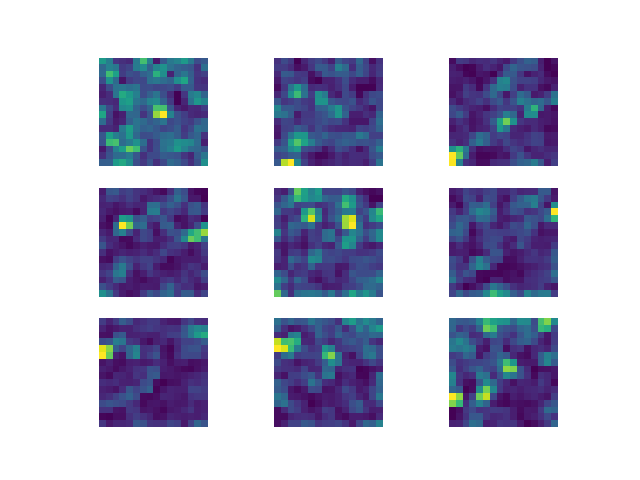
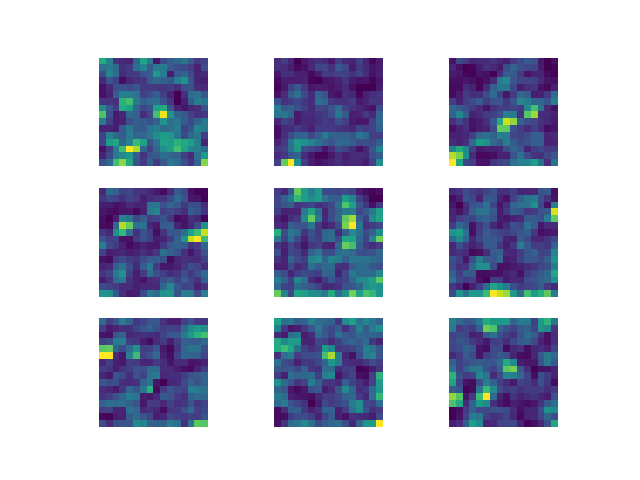
fix 026, 068, 095, 096

diff --git a/q91_100/lib91100.py b/q91_100/lib91100.py
@@ -4,6 +4,8 @@ from collections import Counter
 import sys,os
 sys.path.append(os.getcwd())
 from q01_10 import lib0110
+from q21_30 import lib2130
+from q61_70 import lib6170
 
 # 91
 def Kmeans_cr1_init(img, classes, seed=-1):
@@ -88,3 +90,117 @@ def random_cropping(img, gt, sizex, sizey, num, seed):
             i2 = cv2.rectangle(i2, (rect[0],rect[1]), (rect[2],rect[3]), (0,0,255))
     i2 = cv2.rectangle(i2, (gt[0],gt[1]), (gt[2],gt[3]), (0,255,0))
     return i2, rects, labels
+
+
+# 96
+def nn_getHOG(img, rect, rex, rey, HOG_N=8):
+    rect = list(map(int, rect))
+    part = img[rect[1]:rect[3], rect[0]:rect[2]]
+    hei, wid, _ = part.shape
+    p2 = lib2130.Bi_linear_interpolation(part, float(rex)/wid, float(rey)/hei)
+    mag, ang = lib6170.HOG1_gradient(p2)
+    angs = lib6170.HOG2_histogram(mag, ang, N=HOG_N)
+    outs = lib6170.HOG3_normalization(angs, C=3, epsilon=1)
+    feat = outs.ravel().astype(np.float32)
+    return feat
+
+def nn_getHOGs(img, rects, rex, rey, HOG_N=8):
+    database = []
+    for rect in rects:
+        database.append(nn_getHOG(img, rect, rex, rey, HOG_N))
+    return database
+
+def train_nn(nn, train_x, train_t, num):
+    for _ in range(num):
+        nn.forward(train_x)
+        nn.train(train_x, train_t)
+    return nn
+
+def test_nn(nn, test_x, test_t):
+    num = len(test_x)
+    correct = 0
+    for j in range(len(test_x)):
+        x = test_x[j]
+        t = test_t[j][0]
+        #print("in:", x, "pred:", nn.forward(x), "ans:", t)
+        ans = 0 if nn.forward(x)<=0.5 else 1
+        if t==ans:
+            correct += 1
+    print("datasize : ", num, ", correct : ", correct)
+
+class NN:
+    def __init__(self, ind=2, w1=64, w2=64, outd=1, lr=0.1, seed=-1):
+        if seed != -1:
+            np.random.seed(seed)
+        self.w1 = np.random.normal(0, 1, [ind, w1])
+        self.b1 = np.random.normal(0, 1, [w1])
+        self.w2 = np.random.normal(0, 1, [w1, w2])
+        self.b2 = np.random.normal(0, 1, [w2])
+        self.wout = np.random.normal(0, 1, [w2, outd])
+        self.bout = np.random.normal(0, 1, [outd])
+        self.lr = lr
+
+    def forward(self, x):
+        self.z1 = x
+        self.z2 = self.sigmoid(np.dot(self.z1, self.w1) + self.b1)
+        self.z3 = self.sigmoid(np.dot(self.z2, self.w2) + self.b2)
+        self.out = self.sigmoid(np.dot(self.z3, self.wout) + self.bout)
+        return self.out
+
+    def train(self, x, t):
+        # backpropagation output layer
+        #En = t * np.log(self.out) + (1-t) * np.log(1-self.out)
+        En = (self.out - t) * self.out * (1 - self.out)
+        grad_En = En #np.array([En for _ in range(t.shape[0])])
+        grad_wout = np.dot(self.z3.T, En)
+        grad_bout = np.dot(np.ones([En.shape[0]]), En)
+        self.wout -= self.lr * grad_wout
+        self.bout -= self.lr * grad_bout
+
+        # backpropagation inter layer
+        grad_u2 = np.dot(En, self.wout.T) * self.z3 * (1 - self.z3)
+        grad_w2 = np.dot(self.z2.T, grad_u2)
+        grad_b2 = np.dot(np.ones([grad_u2.shape[0]]), grad_u2)
+        self.w2 -= self.lr * grad_w2
+        self.b2 -= self.lr * grad_b2
+
+        grad_u1 = np.dot(grad_u2, self.w2.T) * self.z2 * (1 - self.z2)
+        grad_w1 = np.dot(self.z1.T, grad_u1)
+        grad_b1 = np.dot(np.ones([grad_u1.shape[0]]), grad_u1)
+        self.w1 -= self.lr * grad_w1
+        self.b1 -= self.lr * grad_b1
+
+    def sigmoid(self, x):
+        return 1. / (1. + np.exp(-x))
+
+
+# 97
+def Object_detection1_getpart(img, sizes, dx, dy, hogx, hogy, hogn=8):
+    height, width, _ = img.shape
+    rects = []
+    feats = []
+    for y in range(0,height,dy):
+        for x in range(0,width, dx):
+            for size in sizes:
+                hx = size[0] // 2
+                hy = size[1] // 2
+                x1 = int(max(0, x-hx))
+                x2 = int(min(width, x+hx))
+                y1 = int(max(0, y-hy))
+                y2 = int(min(height, y+hy))
+                rect = [x1, y1, x2, y2]
+                feat = nn_getHOG(img, rect, hogy, hogx, hogn)
+                if (x1 != x2) and (y1 != y2):
+                    rects.append(rect)
+                    feats.append(feat)
+    return rects, feats
+
+# 98
+def Object_detection2_judge(img, nn, feats, rects, threshold):
+    i2 = img.copy()
+    for feat, rect in zip(feats, rects):
+        score = nn.forward(feat)
+        if score >= threshold:
+            print(rect, score)
+            i2 = cv2.rectangle(i2, (rect[0],rect[1]), (rect[2],rect[3]), (0,0,255), 1)
+    return i2

diff --git a/q91_100/096.py b/q91_100/096.py
@@ -6,85 +6,11 @@ sys.path.append(os.getcwd())
 from q61_70 import lib6170
 from q21_30 import lib2130
 
-class NN:
-    def __init__(self, ind=2, w1=64, w2=64, outd=1, lr=0.1, seed=-1):
-        if seed != -1:
-            np.random.seed(seed)
-        self.w1 = np.random.normal(0, 1, [ind, w1])
-        self.b1 = np.random.normal(0, 1, [w1])
-        self.w2 = np.random.normal(0, 1, [w1, w2])
-        self.b2 = np.random.normal(0, 1, [w2])
-        self.wout = np.random.normal(0, 1, [w2, outd])
-        self.bout = np.random.normal(0, 1, [outd])
-        self.lr = lr
-
-    def forward(self, x):
-        self.z1 = x
-        self.z2 = self.sigmoid(np.dot(self.z1, self.w1) + self.b1)
-        self.z3 = self.sigmoid(np.dot(self.z2, self.w2) + self.b2)
-        self.out = self.sigmoid(np.dot(self.z3, self.wout) + self.bout)
-        return self.out
-
-    def train(self, x, t):
-        # backpropagation output layer
-        #En = t * np.log(self.out) + (1-t) * np.log(1-self.out)
-        En = (self.out - t) * self.out * (1 - self.out)
-        grad_En = En #np.array([En for _ in range(t.shape[0])])
-        grad_wout = np.dot(self.z3.T, En)
-        grad_bout = np.dot(np.ones([En.shape[0]]), En)
-        self.wout -= self.lr * grad_wout
-        self.bout -= self.lr * grad_bout
-
-        # backpropagation inter layer
-        grad_u2 = np.dot(En, self.wout.T) * self.z3 * (1 - self.z3)
-        grad_w2 = np.dot(self.z2.T, grad_u2)
-        grad_b2 = np.dot(np.ones([grad_u2.shape[0]]), grad_u2)
-        self.w2 -= self.lr * grad_w2
-        self.b2 -= self.lr * grad_b2
-
-        grad_u1 = np.dot(En, self.wout.T) * self.z2 * (1 - self.z2)
-        grad_w1 = np.dot(self.z1.T, grad_u1)
-        grad_b1 = np.dot(np.ones([grad_u1.shape[0]]), grad_u1)
-        self.w1 -= self.lr * grad_w1
-        self.b1 -= self.lr * grad_b1
-
-    def sigmoid(self, x):
-        return 1. / (1. + np.exp(-x))
-
-
-def train_nn(nn, train_x, train_t, num):
-    for _ in range(num):
-        nn.forward(train_x)
-        nn.train(train_x, train_t)
-    return nn
-
-def test_nn(nn, test_x, test_t):
-    num = len(test_x)
-    correct = 0
-    for j in range(len(test_x)):
-        x = test_x[j]
-        t = test_t[j][0]
-        #print("in:", x, "pred:", nn.forward(x), "ans:", t)
-        ans = 0 if nn.forward(x)<=0.5 else 1
-        if t==ans:
-            correct += 1
-    print("datasize : ", num, ", correct : ", correct)
-
 if __name__ == '__main__':
     img = cv2.imread("Gasyori100knock/Question_91_100/imori_1.jpg")
     gt = np.array((47, 41, 129, 103), dtype=np.float32)
     _, rects, labels = lib91100.random_cropping(img, gt, 60, 60, 200, 0)
-    database = []
-    for rect in rects:
-        rect = list(map(int, rect))
-        part = img[rect[1]:rect[3], rect[0]:rect[2]]
-        hei, wid, _ = part.shape
-        p2 = lib2130.Bi_linear_interpolation(part, 32./hei, 32./wid)
-        mag, ang = lib6170.HOG1_gradient(p2)
-        angs = lib6170.HOG2_histogram(mag, ang, N=8)
-        outs = lib6170.HOG3_normalization(angs, C=3, epsilon=1)
-        feat = outs.ravel()
-        database.append(feat.astype(np.float32))
+    database = lib91100.nn_getHOGs(img, rects, 32, 32)
 
     train_x = np.array(database[:160])
     train_t = np.array(labels[:160])
@@ -94,7 +20,7 @@ if __name__ == '__main__':
     train_t = np.expand_dims(train_t, axis=-1)
     test_t = np.expand_dims(test_t, axis=-1)
 
-    nn = NN(ind=train_x.shape[1], lr=0.01, seed=0)
-    nn = train_nn(nn, train_x, train_t, 10000)
-    test_nn(nn, train_x, train_t)
-    test_nn(nn, test_x, test_t)
+    nn = lib91100.NN(ind=train_x.shape[1], lr=0.01, seed=0)
+    nn = lib91100.train_nn(nn, train_x, train_t, 10000)
+    lib91100.test_nn(nn, train_x, train_t)
+    lib91100.test_nn(nn, test_x, test_t)

diff --git a/q91_100/095.py b/q91_100/095.py
@@ -36,7 +36,7 @@ class NN:
         self.w2 -= self.lr * grad_w2
         self.b2 -= self.lr * grad_b2
 
-        grad_u1 = np.dot(En, self.wout.T) * self.z2 * (1 - self.z2)
+        grad_u1 = np.dot(grad_u2, self.w2.T) * self.z2 * (1 - self.z2)
         grad_w1 = np.dot(self.z1.T, grad_u1)
         grad_b1 = np.dot(np.ones([grad_u1.shape[0]]), grad_u1)
         self.w1 -= self.lr * grad_w1
@@ -63,5 +63,5 @@ if __name__ == '__main__':
     train_t = np.array([[0], [1], [1], [0]], dtype=np.float32)
 
     nn = NN(ind=train_x.shape[1], seed=0)
-    nn = train_nn(nn, train_x, train_t, 1000)
+    nn = train_nn(nn, train_x, train_t, 5000)
     test_nn(nn, train_x, train_t)

diff --git a/q61_70/lib6170.py b/q61_70/lib6170.py
@@ -227,7 +227,7 @@ def HOG3_normalization(img, C=3, epsilon=1):
     C, height, width = img.shape
     for y in range(height):
         for x in range(width):
-            img[:, y, x] /= np.sqrt(np.sum(img[:, max(y-1,0):min(y+2,height), max(x-1,0):min(x+2,width)]) + epsilon)
+            img[:, y, x] /= np.sqrt(np.sum(img[:, max(y-1,0):min(y+2,height), max(x-1,0):min(x+2,width)] ** 2) + epsilon)
     return img
 
 # 69

diff --git a/q21_30/lib2130.py b/q21_30/lib2130.py
@@ -94,8 +94,8 @@ def Bi_linear_interpolation(img, ax, ay):
     x = x / ax
     ny = np.floor(y).astype(np.int)
     nx = np.floor(x).astype(np.int)
-    ny = np.minimum(ny, width-2)
-    nx = np.minimum(nx, height-2)
+    ny = np.minimum(ny, height-2)
+    nx = np.minimum(nx, width-2)
     dy = y - ny
     dx = x - nx
     dy = np.repeat(np.expand_dims(dy, axis=-1), C, axis=-1)
